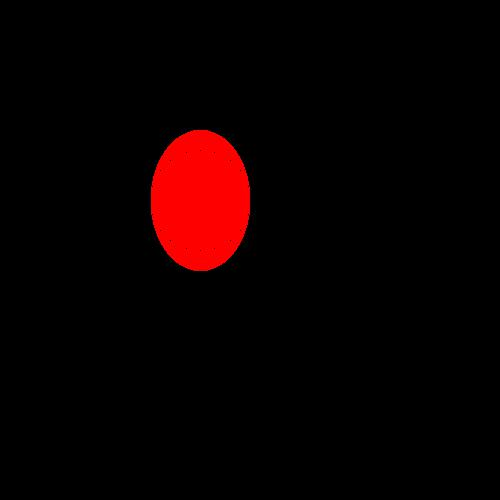
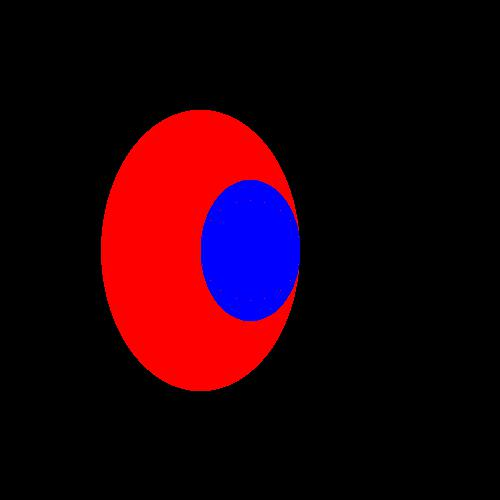
Détection de la sphere la plus proche de la camera

Changed region(s): [[0.18, 0.21, 0.6, 0.81]]

diff --git a/Projet.py b/Projet.py
@@ -22,6 +22,9 @@ class Color:
         self.b=b
         self.r=r
         self.g=g
+        
+    def getTuple(self):
+        return (self.r,self.g,self.b)
 
 
 class Ray:
@@ -41,16 +44,24 @@ class Camera:
         
 
 class Light:
-    def __init__(self,point,color):
+    AMBIANTE=1
+    DIFFUSE=2
+    SPECULAIRE=3
+    def __init__(self,point,color=Color(),intensite=1, mode=AMBIANTE):
         self.point=point
         self.color=color
+        self.mode=mode
+        self.intensite=intensite
 
 class Sphere:
-    def __init__(self,point,rayon,color,coef=1):
+    def __init__(self,point,rayon,color,ambiante=1,diffuse=1,speculaire=1,brillance=1):
         self.point=point
         self.rayon=rayon
         self.color=color
-        self.coef=coef
+        self.ambiante = ambiante
+        self.diffuse = diffuse
+        self.speculaire=speculaire
+        self.brillance=brillance
 
 class Scene:
     
@@ -59,6 +70,11 @@ class Scene:
         self.tabLight=[]
         self.tabSphere=[]
         self.buffer=[(0,0,0)]*self.camera.screen_width*self.camera.screen_height
+        self.image = Image.new("RGB", (self.camera.screen_width, self.camera.screen_height))
+        self.buffer = self.image.load()
+        for x in range(self.camera.screen_width):
+            for y in range(self.camera.screen_height):
+                self.buffer[x,y]=(0,0,0)
                      
     def __add__(self, element):
         if isinstance(element,Light):
@@ -67,49 +83,60 @@ class Scene:
             self.tabSphere.append(element)
 
     def process(self):
-        direction=Vector(0,1,0)
-        for i in range(0,self.camera.screen_width):
-            for j in range(0,self.camera.screen_height):
-                position=Point(i,j,0)
-                pointMin = False
-                colorMin = False
-                for sphere in self.tabSphere:
-                    find=False
-                    a = direction.x**2 + direction.y**2 + direction.y**2
-                    b= 2*(direction.x*(position.x-sphere.point.x)+direction.y*(position.y-sphere.point.y)+direction.z*(position.z-sphere.point.z))
-                    c = ((sphere.point.x-position.x)**2+(sphere.point.y-position.y)**2+(sphere.point.z-position.z)**2)-sphere.rayon**2
-                    det = b**2-(4*a*c)
-                    if det>0:
-                        t1 = (-b+sqrt(det))/(2*a)
-                        t2 = (-b-sqrt(det))/(2*a)
-                        if abs(t1)>abs(t2):
-                            t1=t2
-                        find=t1
-                    elif det==0:
-                        find=-b/(2*a)
-                    if find!=False:
-                        p = Point(((position.x+direction.x*find)-sphere.point.x)**2, ((position.y+direction.y*find)-sphere.point.y)**2,((position.z+direction.z*find)-sphere.point.z)**2)
-                        pointMin=p
-                        colorMin=sphere.color
-                if pointMin!=False:
-                    self.buffer[i*self.camera.screen_width+j]=(colorMin.r,colorMin.g,colorMin.b)
+        for light in self.tabLight:
+            if light.mode == Light.AMBIANTE:
+                direction=Vector(0,1,0)
+                for i in range(0,self.camera.screen_width):
+                    for j in range(0,self.camera.screen_height):
+                        #direction=Vector(i-position.x,j-position.y,self.camera.focale-position.z)
+                        #print("x=",direction.x,"y=",direction.y,"z=",direction.z)
+                        position=Vector(i,j,0)
+                        pointMin = False
+                        colorMin = False
+                        for sphere in self.tabSphere:
+                            find=False
+                            a = direction.x**2 + direction.y**2 + direction.y**2
+                            b= 2*(direction.x*(position.x-sphere.point.x)+direction.y*(position.y-sphere.point.y)+direction.z*(position.z-sphere.point.z))
+                            c = ((sphere.point.x-position.x)**2+(sphere.point.y-position.y)**2+(sphere.point.z-position.z)**2)-sphere.rayon**2
+                            det = b**2-(4*a*c)
+                            if det>0:
+                                t1 = (-b+sqrt(det))/(2*a)
+                                t2 = (-b-sqrt(det))/(2*a)
+                                if abs(t1)>abs(t2):
+                                    t1=t2
+                                find=t1
+                            elif det==0:
+                                find=-b/(2*a)
+                            if find!=False:
+                                p = Point(((position.x+direction.x*find)-sphere.point.x)**2, ((position.y+direction.y*find)-sphere.point.y)**2,((position.z+direction.z*find)-sphere.point.z)**2)
+                                if pointMin==False:
+                                    normeMin=sqrt((p.x-position.x)**2+(p.y-position.y)**2+(p.z-position.z)**2)
+                                    pointMin=p
+                                    colorMin=sphere.color
+                                else:
+                                    norme=sqrt((p.x-position.x)**2+(p.y-position.y)**2+(p.z-position.z)**2)
+                                    if norme<normeMin:
+                                        normeMin=norme
+                                        pointMin=p
+                                        colorMin=sphere.color
+                        if pointMin!=False:
+                            self.buffer[i,j]=colorMin.getTuple()
+            
+    def process2(self):
+        test=1
                     
-    def draw(self):
-        f=open("test2.jpg",'w')
-        image = Image.new("RGB", (self.camera.screen_width, self.camera.screen_height))
-        pix = image.load()
-        for x in range(self.camera.screen_width):
-            for y in range(self.camera.screen_height):
-                pix[x,y]=self.buffer[x*self.camera.screen_width+y]
-        image.save(f, "JPEG")
-        f.close()
+    def draw(self,name):
+        file=open(name,'w')
+        self.image.save(file, "JPEG")
+        file.close()
                     
         
 
     
-scene = Scene(Camera(500,500,500,500,1))
-sphere = Sphere(Point(200,200,0), 50, Color(255,0,0))
-scene+sphere
+scene = Scene(Camera(500,500,500,500,1000))
+scene+Sphere(Point(250,250,0), 50, Color(0,0,255))
+scene+Sphere(Point(200,250,10), 100, Color(255,0,0))
+scene+Light(Point(10,20,5))
 scene.process()
-scene.draw()
+scene.draw("test2.jpg")
 
